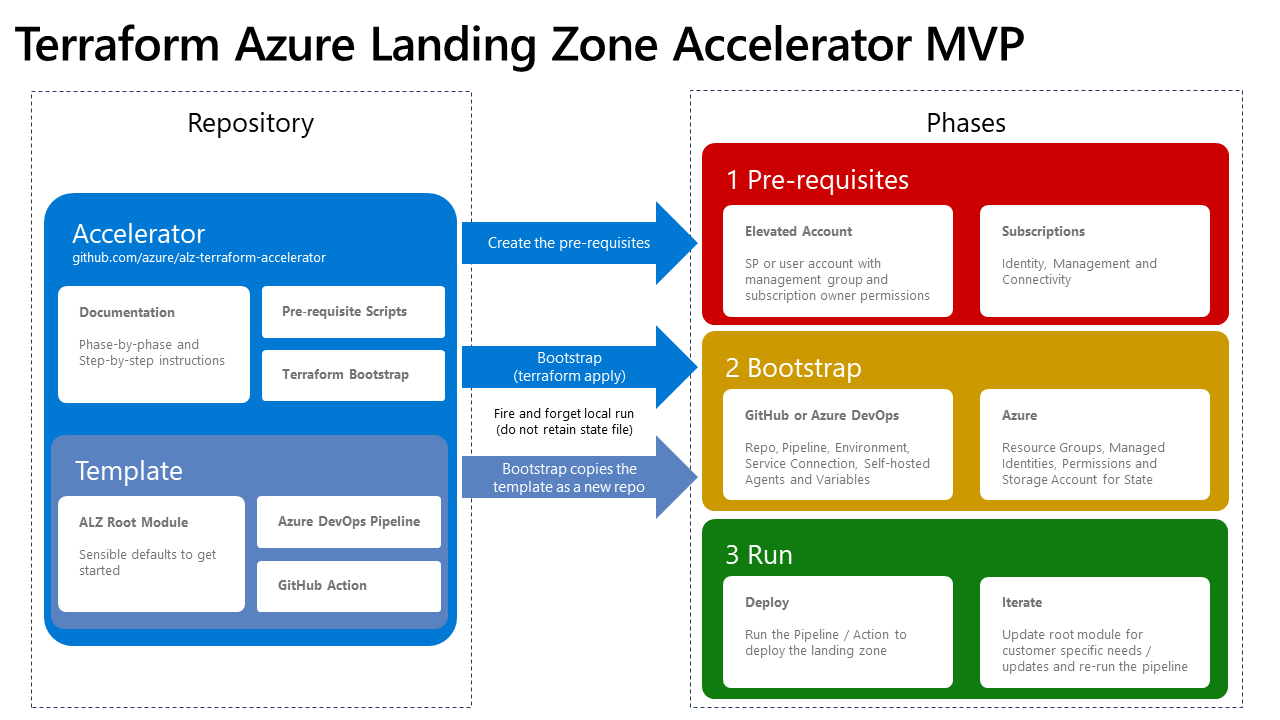
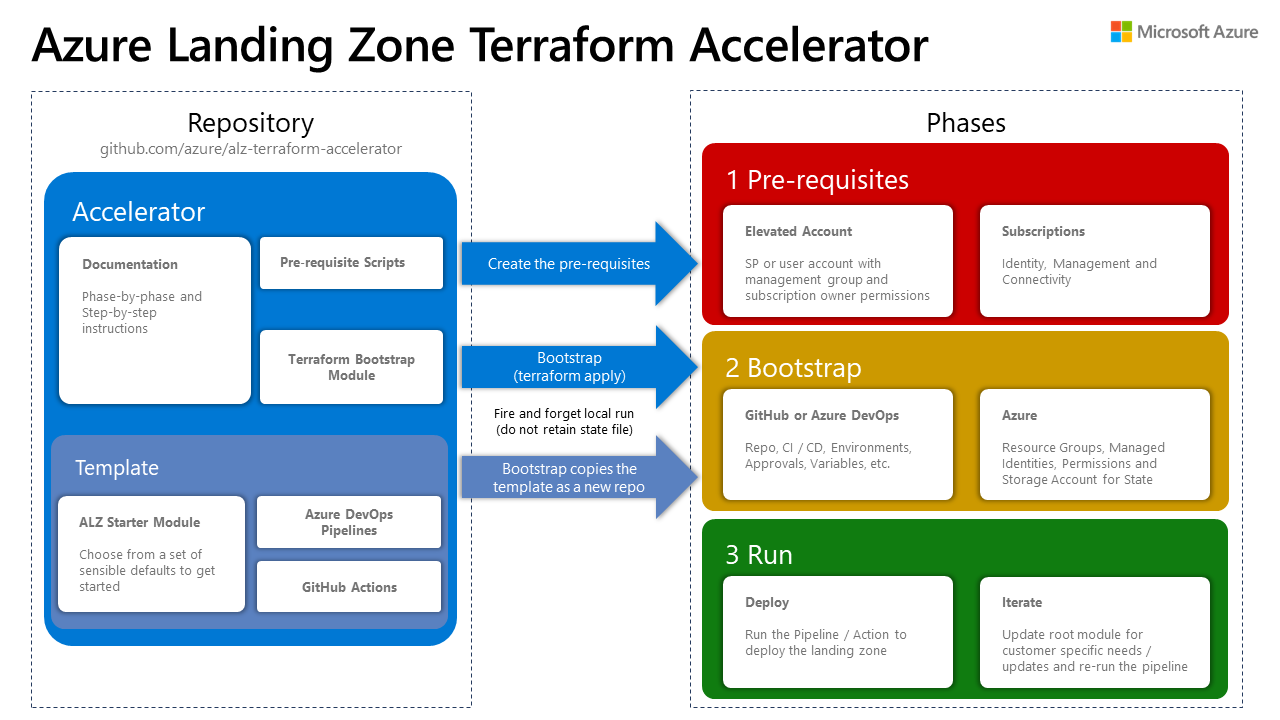
Update overview docs

diff --git a/docs/wiki/Home.md b/docs/wiki/Home.md
@@ -7,13 +7,21 @@ This accelerator provides an opinionated approach for configuring and securing t
 
 ## Accelerator features
 
-The accelerator bootstraps a continuous delivery environment for you. It supports both Azure DevOps and GitHub version control systems (VCS). It uses a PowerShell module to gather required user input, which in turn applies Terraform modules to configure the bootstrap environment.
+The accelerator bootstraps a continuous delivery environment for you. It supports both the Azure DevOps and GitHub version control system (VCS). It uses the PowerShell module [ALZ](https://www.powershellgallery.com/packages/ALZ) to gather required user input, which is used to apply Terraform modules to configure the bootstrap environment.
 
-The components of the environment are similar, but differ depending on your choice of VCS.
+The accelerator follows a 3 phase approach:
+
+1. Pre-requisites: Instructions to configure credentials and subscriptions.
+2. Bootstrap: Run the PowerShell script to generate the continuous delivery environment.
+3. Run: Update the module (if needed) to suit the needs of your organisation and deploy via continuous delivery.
+
+![Azure landing zone accelerator process][alz_accelerator_overview]
+
+The components of the environment are similar, but differ depending on your choice of VCS:
 
 ### GitHub
 
-We only support federated credentials for GitHub as it is best practice.
+We only support federated credentials for GitHub as a best practice.
 
 - Azure:
   - Resource Group for State
@@ -82,8 +90,6 @@ We include this option as Workload identity federation (WIF) is still in preview
   - Service Connection with Managed identity for Plan / Apply
   - Group and Members for Apply Approval
   - Agent Pool
-
-![Azure landing zone accelerator process][alz_accelerator_overview]
 
 ## Next steps
 
